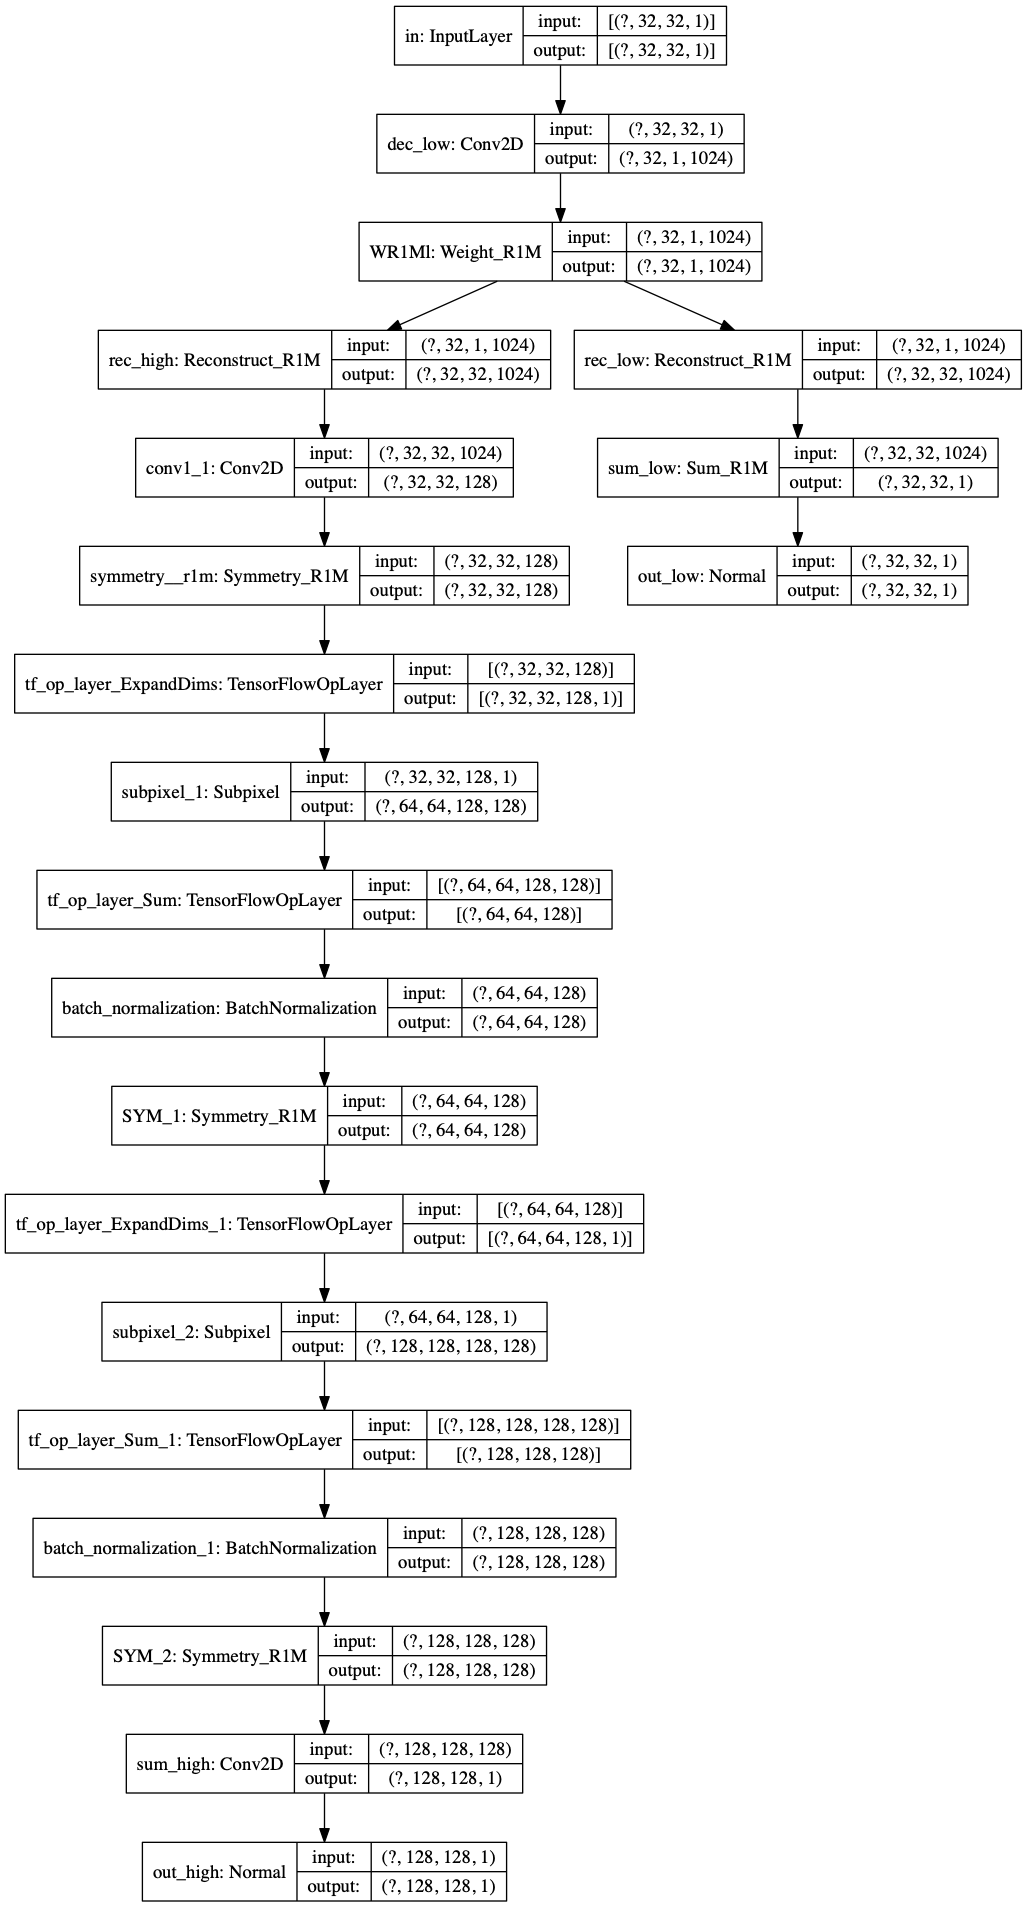
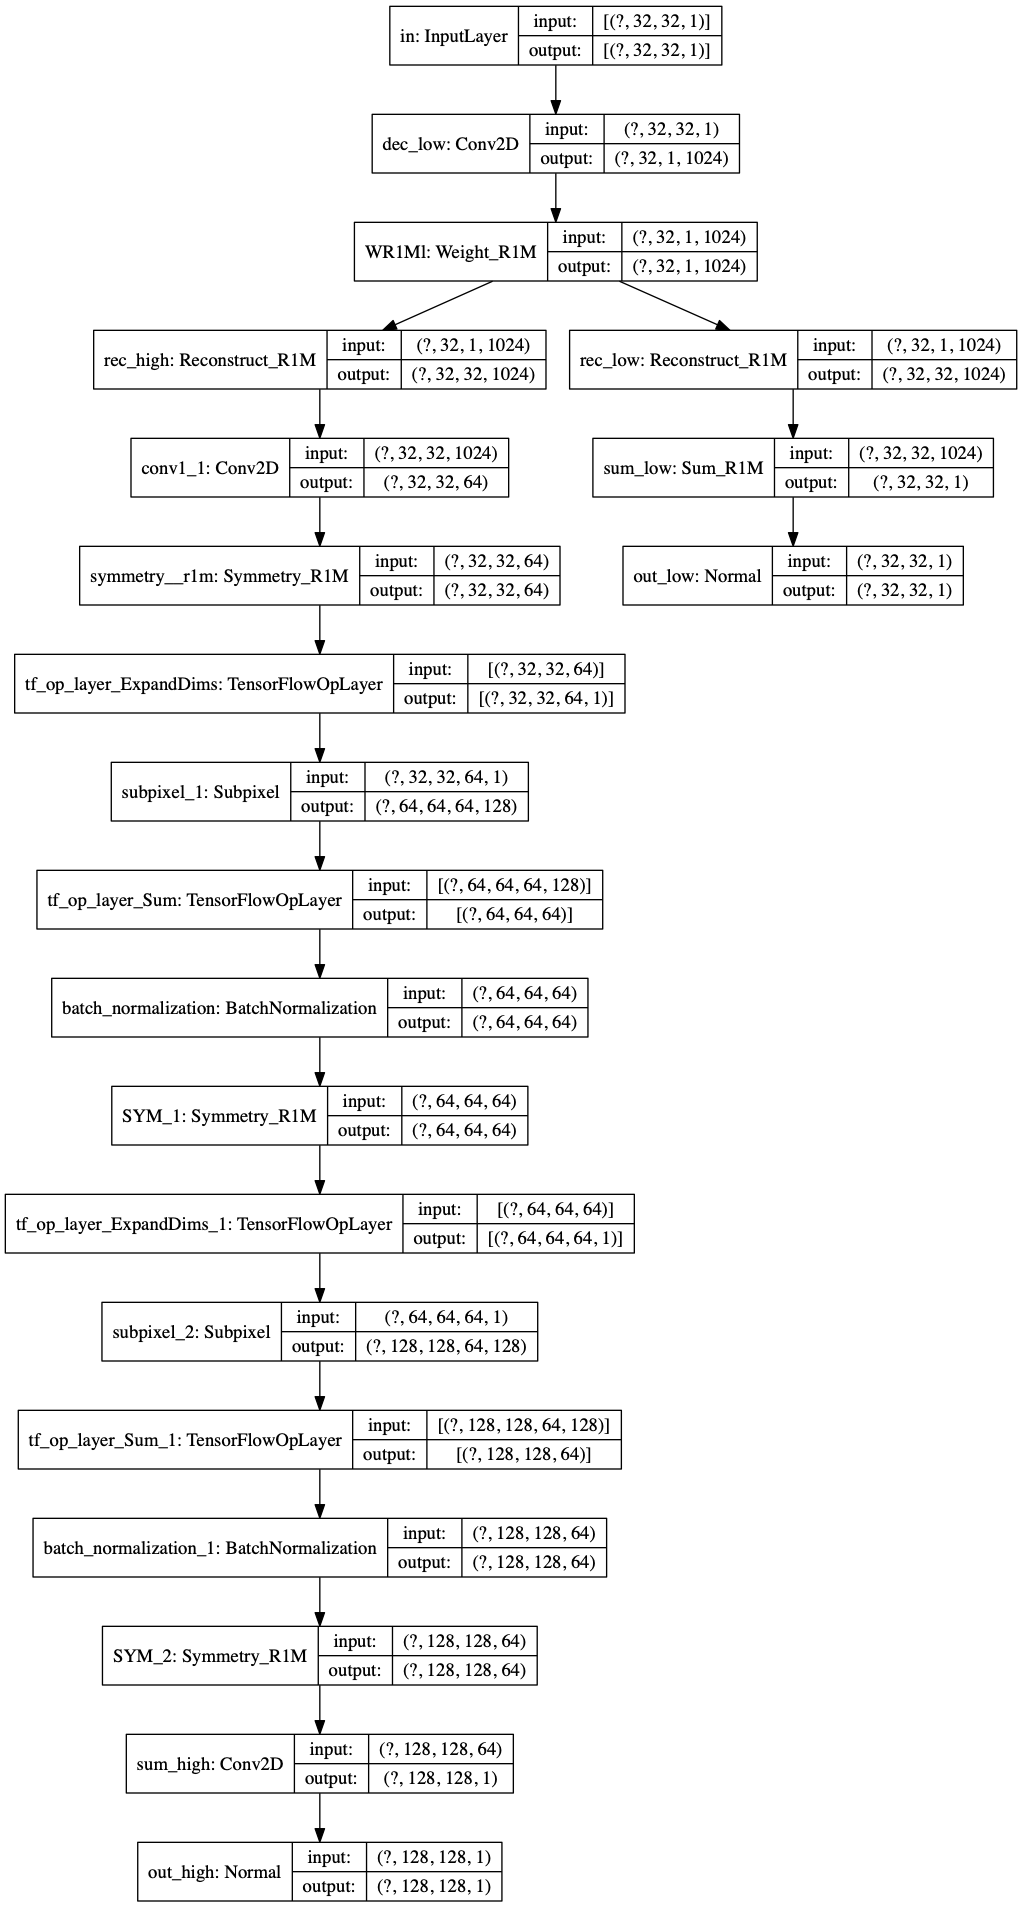
new model conv3D

diff --git a/model.py b/model.py
@@ -166,7 +166,7 @@ def make_generator_model(len_low_size=16, scale=4):
 
     Rech = Reconstruct_R1M(1024, name='rec_high')(WeiR1Ml)
 
-    conv1 = tf.keras.layers.Conv2D(128, [1, 1], strides=1, padding='same', data_format="channels_last", 
+    conv1 = tf.keras.layers.Conv2D(64, [1, 1], strides=1, padding='same', data_format="channels_last", 
                                     activation='relu', use_bias=False,
                                     name='conv1_1')(Rech)
     sym = Symmetry_R1M()(conv1)
